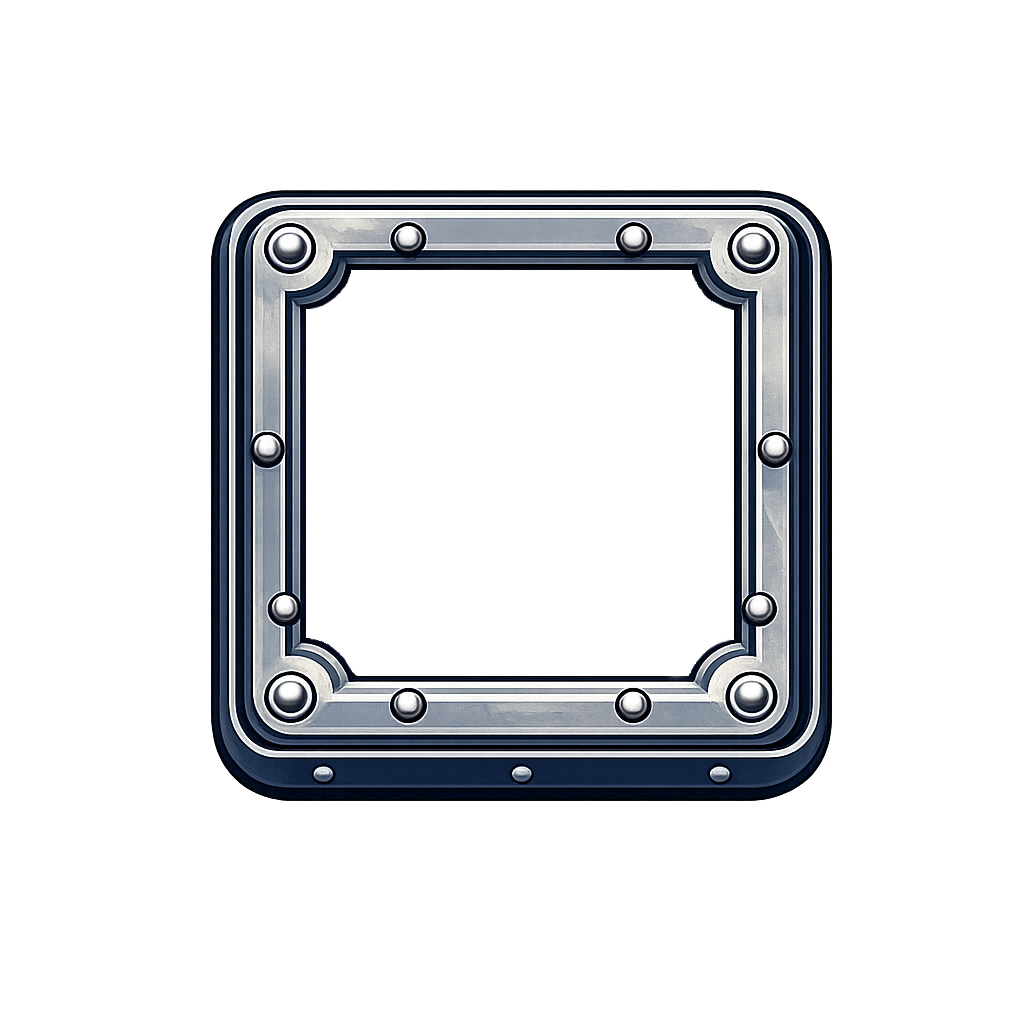
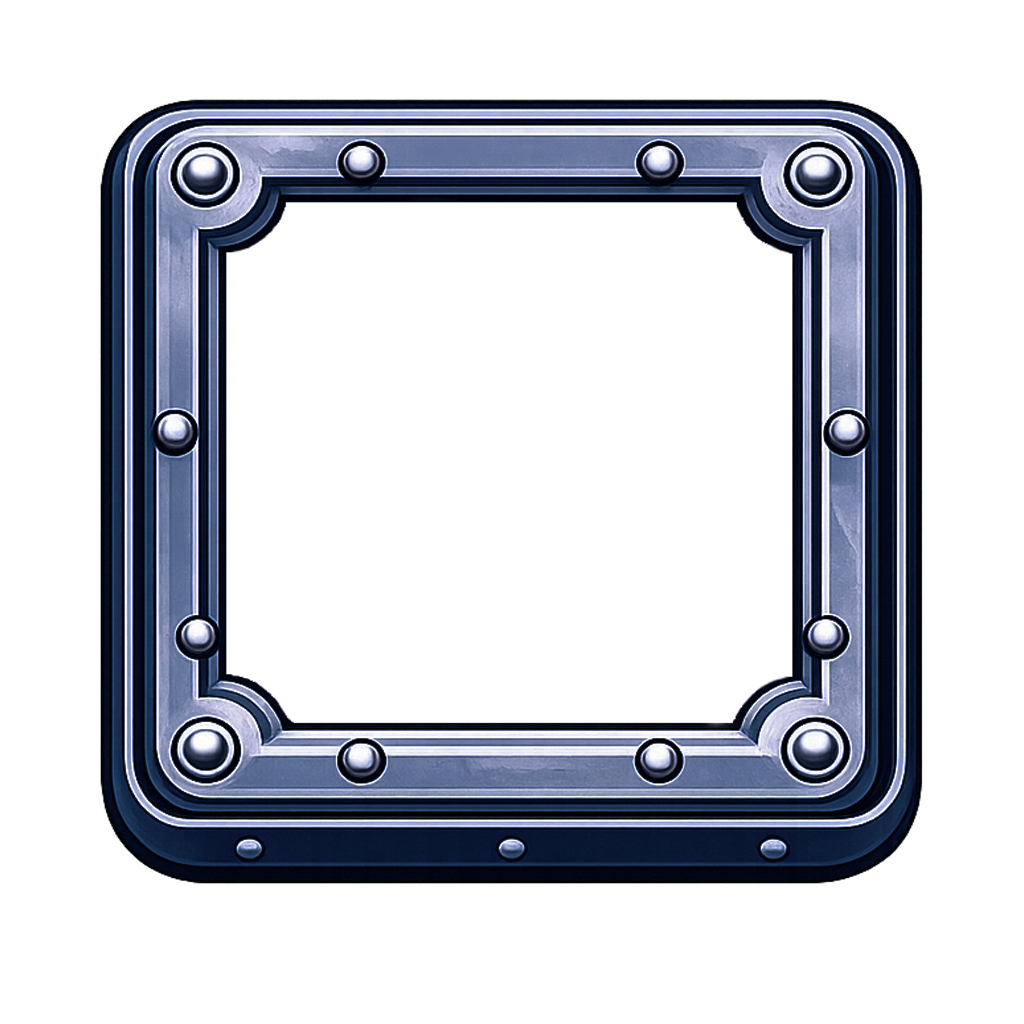
fix: Restore original box sizing/spacing, overlay frame on top
- Restore original box dimensions (clamp 2.4-2.8rem)
- Restore original gap spacing (0.5rem)
- Keep original border and rounded corners on boxes
- Frame overlay now 150% size, centered on each box
- Frame sits on top of existing boxes rather than replacing them

diff --git a/client/src/components/DefineBoxes.tsx b/client/src/components/DefineBoxes.tsx
@@ -108,8 +108,8 @@ export const DefineBoxes: React.FC<DefineBoxesProps> = ({
       justifyContent: 'center',
       position: 'relative'
     }}>
-      {/* Small gap - frames are self-contained */}
-      <div style={{ display: 'flex', gap: '0.15rem' }}>
+      {/* Original spacing restored - frame overlays extend beyond */}
+      <div style={{ display: 'flex', gap: '0.5rem' }}>
         {letters.map((letter, index) => {
           const isRevealed = revealedClues.includes(letter as ShortClueKey);
           const status = guessStatus[gameState.guesses.length];
@@ -152,8 +152,8 @@ export const DefineBoxes: React.FC<DefineBoxesProps> = ({
           // Handle special case for second E
           const clueKey = letter === 'E' && index === 5 ? 'E2' : letter;
 
-          // Box container size - this defines the overall space each box takes
-          const boxSize = 'clamp(2.6rem, 7vw, 3.2rem)';
+          // Original box size - same as before the frame overlay was added
+          const boxSize = 'clamp(2.4rem, 6.5vw, 2.8rem)';
           
           return (
             <div
@@ -176,20 +176,20 @@ export const DefineBoxes: React.FC<DefineBoxesProps> = ({
                 zIndex: 1
               }}
             >
-              {/* Inner colored box - sized to fit INSIDE the frame's transparent window */}
-              {/* The frame has thick borders, so inner content is ~55% of total frame size */}
+              {/* Original box styling - full size with border and rounded corners */}
               <div
                 style={{
                   position: 'absolute',
-                  top: '18%',
-                  left: '18%',
-                  right: '18%',
-                  bottom: '18%',
-                  borderRadius: '0.15rem',
+                  top: 0,
+                  left: 0,
+                  right: 0,
+                  bottom: 0,
+                  border: `2px solid ${borderColor}`,
+                  borderRadius: '0.5rem',
                   display: 'flex',
                   alignItems: 'center',
                   justifyContent: 'center',
-                  fontSize: 'clamp(1rem, 3vw, 1.3rem)',
+                  fontSize: 'clamp(1.1rem, 3.2vw, 1.35rem)',
                   fontWeight: 700,
                   color: textColor,
                   backgroundColor: bonusColors ? undefined : backgroundColor,
@@ -202,17 +202,18 @@ export const DefineBoxes: React.FC<DefineBoxesProps> = ({
                 {letter}
               </div>
               
-              {/* BoxCover frame overlay - covers entire box area */}
+              {/* BoxCover frame overlay - larger than box, centered on top */}
               <img
                 src="/BoxCover.png"
                 alt=""
                 draggable={false}
                 style={{
                   position: 'absolute',
-                  top: 0,
-                  left: 0,
-                  width: '100%',
-                  height: '100%',
+                  top: '50%',
+                  left: '50%',
+                  transform: 'translate(-50%, -50%)',
+                  width: '150%',
+                  height: '150%',
                   pointerEvents: 'none',
                   zIndex: 2
                 }}
